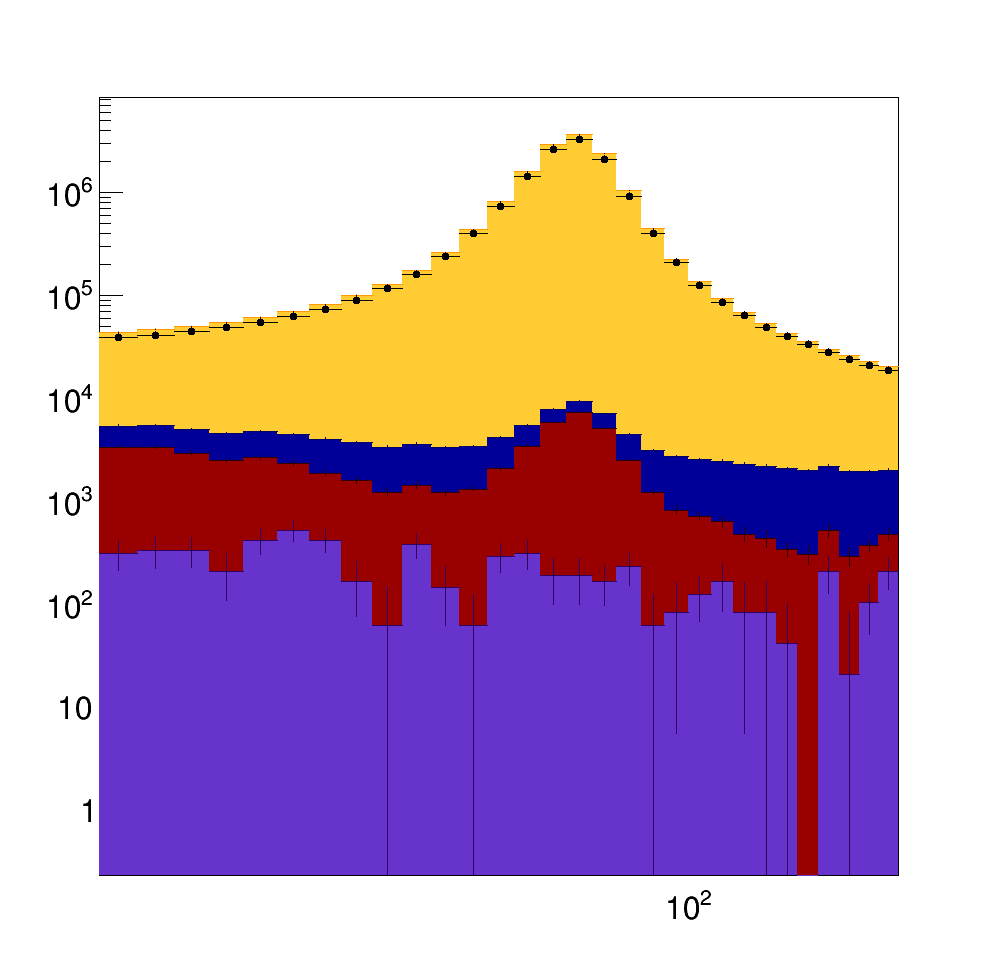
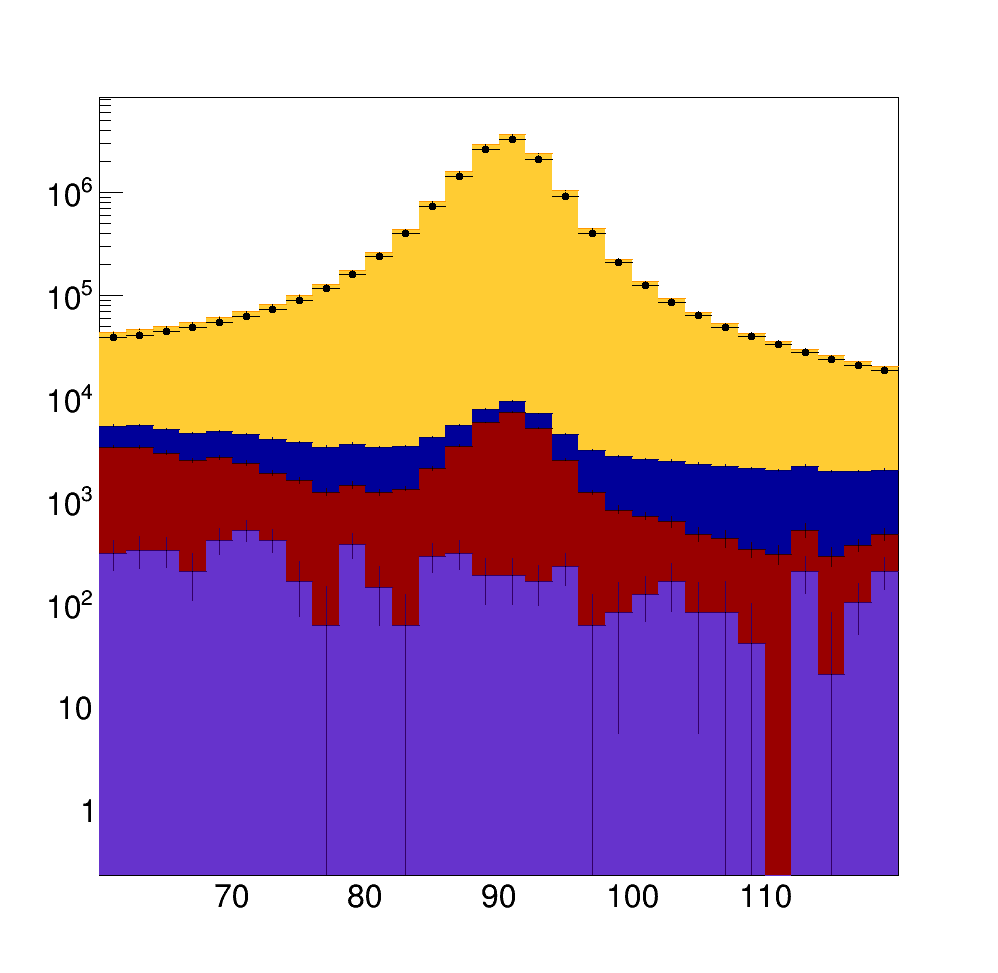
plots

diff --git a/dataVsMC.C b/dataVsMC.C
@@ -270,7 +270,8 @@ void dataVsMC()
       chains[iChain]->AddFileInfoList(filecoll.GetList());
       cout << files << endl;
       cout << chains[iChain]->GetEntries() << " events loaded" << endl;	 
-      if(chains[iChain]->GetEntries()==0){
+      
+      if(chains[iChain]->GetEntries()==0){//error message if no events loaded
 	cout << endl;
 	cout << "!!!!!!!!!!!!!!!!!!!!!!!!!!!!!!!!!!!!!!!!!!!!!!!!!!!!" << endl;
 	cout << "ERROR: Broken files or files not found in: " << endl;
@@ -280,7 +281,7 @@ void dataVsMC()
 	return;
       }
     }                
-    totalentries=totalentries+chains[iChain]->GetEntries(); 
+    totalentries+=chains[iChain]->GetEntries(); 
 
     //Setting addresses for branches
     chains[iChain]->SetBranchAddress("Nelectrons", &Nelectrons, &b_Nelectrons);
@@ -362,11 +363,12 @@ void dataVsMC()
   
   //Event Loop
   cout << "Starting Event Loop" << endl;
-  double invMass, xSecWeight, genWeight, totalWeight;
-  Long64_t nentries, localEntry, sumGenWeight;
+  double invMass, xSecWeight, genWeight, varGenWeight, totalWeight, lumiEffective;
+  Long64_t nentries, nEffective, localEntry, sumGenWeight, sumRawGenWeight;
   Long64_t count = 0;
   TString compareHLT = "HLT_Ele23_Ele12_CaloIdL_TrackIdL_IsoVL_DZ_v*";
   TString trigName;
+  bool isMC; //is Monte Carlo
   int trigNameSize;
   //double lumi = chains[EE50to100]->GetEntries()/xSec[EE50to100]; //50to100 lumi
   double lumi = dataLuminosity;//luminosity for xsec weighting
@@ -376,7 +378,9 @@ void dataVsMC()
     if(iChain==WWTo2L2Nu||iChain==ZZTo4L||iChain==WZTo3LNu) continue;//not using these in this analysis
     if(iChain==QCD20to30||iChain==QCD30to50||iChain==QCD50to80||iChain==QCD80to120||iChain==QCD120to170||
        iChain==QCD170to300||iChain==QCD300toInf) continue;//skipping QCD due to possible problems
-
+    if(iChain==DataRunB||iChain==DataRunC||iChain==DataRunD||iChain==DataRunE||iChain==DataRunF||
+       iChain==DataRunG||iChain==DataRunH) isMC = kFALSE;
+    else isMC = kTRUE;
     cout << endl;
     cout << "Processing chain: " << dirNames[iChain] << endl;
     cout << endl;
@@ -385,17 +389,22 @@ void dataVsMC()
     xSecWeight=lumi*(xSec[iChain]/1.0);     
     
     sumGenWeight = 0;
-    if(iChain<DataRunB){
+    sumRawGenWeight = 0;
+    varGenWeight = 0;
+    if(isMC==kTRUE){
       for(Long64_t i=0;i<nentries;i++){
 	localEntry = chains[iChain]->LoadTree(i);
 	b_GENEvt_weight->GetEntry(localEntry);
-	genWeight = GENEvt_weight/fabs(GENEvt_weight);	
+	genWeight = GENEvt_weight/fabs(GENEvt_weight);	//normalized genweight
 	sumGenWeight += genWeight;
+	varGenWeight += GENEvt_weight*GENEvt_weight; //variance in genweights
+	sumRawGenWeight += GENEvt_weight;
       }          
-      cout << "genWeight for this chain is: " << 1.0/sumGenWeight << endl;
-      cout << endl;
-      genWeightFile << "Chain: " << dirNames[iChain] << ", gen weight: " << 1.0/sumGenWeight << endl;
-    }
+      nEffective = (sumRawGenWeight*sumRawGenWeight)/varGenWeight;
+      lumiEffective = nEffective/xSec[iChain];
+      genWeightFile << "iChain : Nevents : Neffective : LumiEffective" << endl;
+      genWeightFile << iChain << ", " << nentries << ", " << nEffective << ", " << lumiEffective << endl;
+    }//end if iChain<DataRunB
     
     for(Long64_t i=0;i<nentries;i++) {      
       counter(count,totalentries);

diff --git a/drawDataVsMC.C b/drawDataVsMC.C
@@ -88,7 +88,6 @@ void drawDataVsMC()
   legend->Draw("same");
 
   TCanvas*canvas2 = new TCanvas("canvas2","",10,10,1000,1000);
-  canvas2->SetLogx();
   canvas2->SetLogy();
   hStacklinear->Draw("bar");
   histos[BINS_DATA_LINEAR]->Draw("PE,same");
@@ -96,9 +95,16 @@ void drawDataVsMC()
   TCanvas*canvas3 = new TCanvas("canvas3","",10,10,1000,1000);
   canvas3->SetLogx();
   canvas3->SetLogy();
-  histos[BINS_EE]->Draw("bar");
 
+  auto hDataMCRatio = new TRatioPlot(hStack,histos[BINS_DATA]);
+  hDataMCRatio->GetXaxis()->SetTitle("m_{ee} [GeV]");  
+  canvas3->cd();
+  hDataMCRatio->Draw();
+  hDataMCRatio->GetUpperPad()->cd();
+  legend->Draw("same");
+  canvas3->Update();
+  
   canvas1->SaveAs("./plots/dataVsMClog.png");
   canvas2->SaveAs("./plots/dataVsMClinear.png");
-  canvas3->SaveAs("./plots/DYEE.png");
+  canvas3->SaveAs("./plots/dataVsMCRatiolog.png");
 }//end invMassDraw
